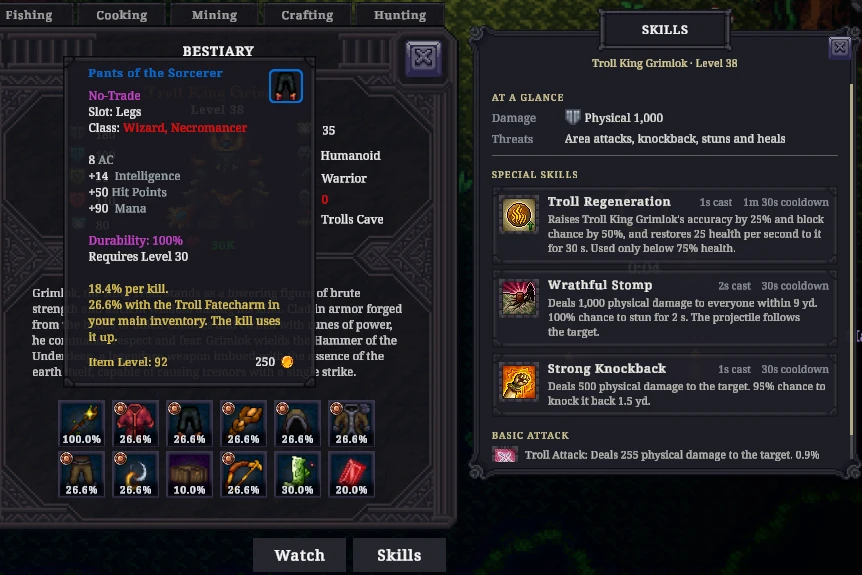
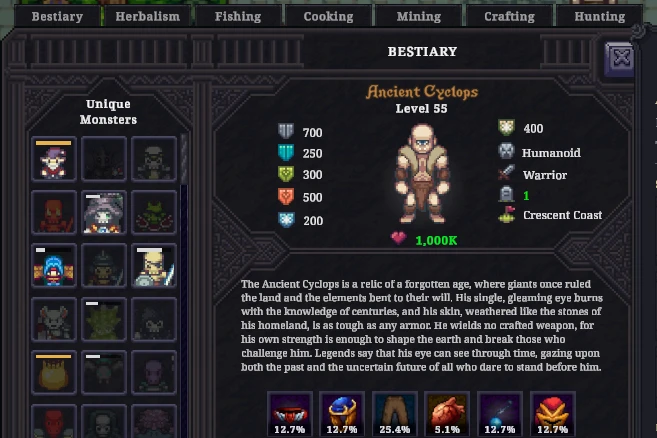
docs(mods): show drop bars, Skills panel and settings on /mods
1.3.0 added a bar on each Bestiary monster that fills as its drops are
found, but the /mods Bestiary card cropped the monster list out and
neither it nor the README mentioned the bars. The Bestiary card now
shows the list with its bars beside Ancient Cyclops's page, and both
texts add one sentence about the bar. Showing the list leaves no room in
a 3:2 card for the Skills panel, which the old picture showed, so the
panel gets a card of its own under its setting's name and sentence.
Nothing on /mods said that features can be switched off or changed, so a
Settings card shows the Boss list's options and names the key that opens
them.

diff --git a/website/src/routes/mods/+page.svelte b/website/src/routes/mods/+page.svelte
@@ -29,9 +29,15 @@
     },
     {
       title: "Bestiary",
-      text: "Shows every monster's Bestiary page, with the chance of each drop, its skills and its respawn timer.",
+      text: "Shows every monster's Bestiary page, with the chance of each drop and its respawn timer. A bar on each monster fills as you find its drops.",
       image: "/mod-pictures/card-bestiary.webp",
-      alt: "Troll King Grimlok's Bestiary page with drop chances, a drop's tooltip and his skills.",
+      alt: "Ancient Cyclops's Bestiary page with his drop chances, beside the list of monsters with a bar on each that fills as you find its drops.",
+    },
+    {
+      title: "Skills Panel",
+      text: "Shows a monster's skills beside its Bestiary page, with what each does, its cast time and cooldown.",
+      image: "/mod-pictures/card-skills-panel.webp",
+      alt: "Ancient Cyclops's Bestiary page with his Skills panel beside it, listing Earthshatter Slam, Strong Knockback and Grasping Roots.",
     },
     {
       title: "Map Pins",
@@ -44,6 +50,12 @@
       text: "Warns you on the target frame when killing a boss would use the Fatecharm in your main inventory.",
       image: "/mod-pictures/card-fatecharms.webp",
       alt: "The Catacombs Fatecharm beside Captain Aerendyl's level, with its tooltip.",
+    },
+    {
+      title: "Settings",
+      text: "Switch each feature on or off and change how it looks. Press F8 to open the settings.",
+      image: "/mod-pictures/card-settings.webp",
+      alt: "The Boss list's settings, with its style, direction, tiers and levels.",
     },
   ];
 </script>

diff --git a/mods/PocketCompendium/README.md b/mods/PocketCompendium/README.md
@@ -37,7 +37,7 @@ Marks respawn timers on the map and on spawn points, and points to monsters off 
 
 ### Bestiary
 
-Shows every monster's page, with drop chances, skills and respawn timers.
+Shows every monster's page, with drop chances, skills and respawn timers. A bar on each monster fills as you find its drops.
 
 ![Troll King Grimlok's Bestiary page with drop chances raised by the Troll Fatecharm, a drop's tooltip, and his skills beside it.](../../assets/pocket-compendium-bestiary.webp)
 
